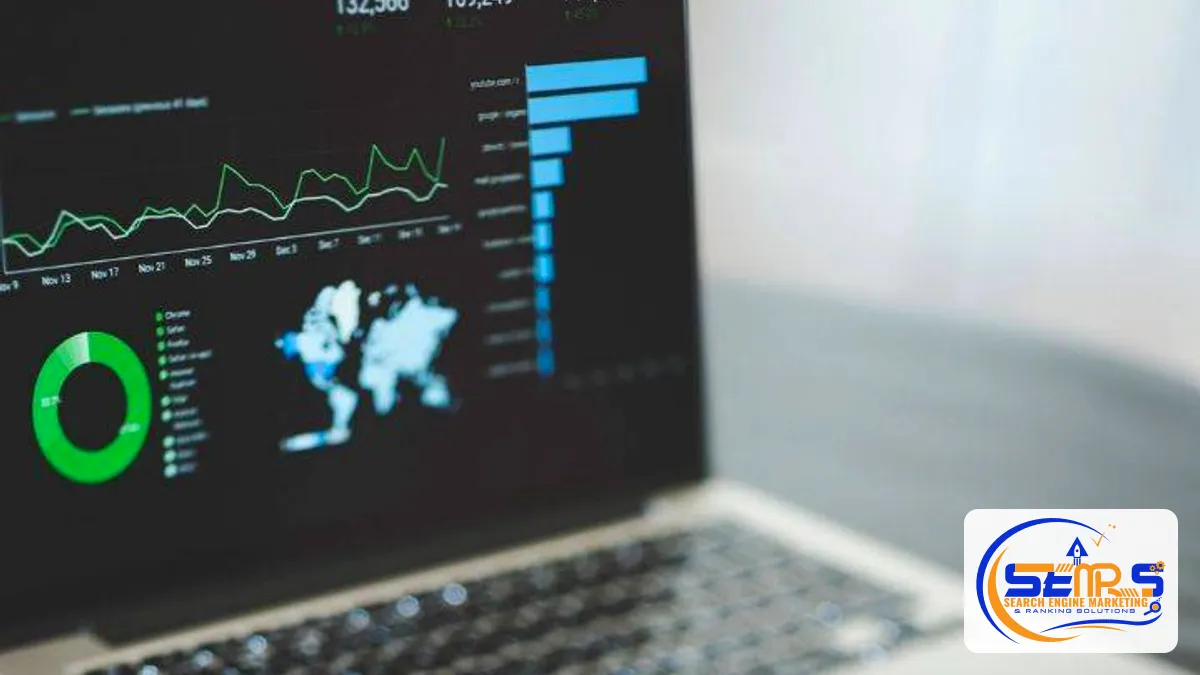
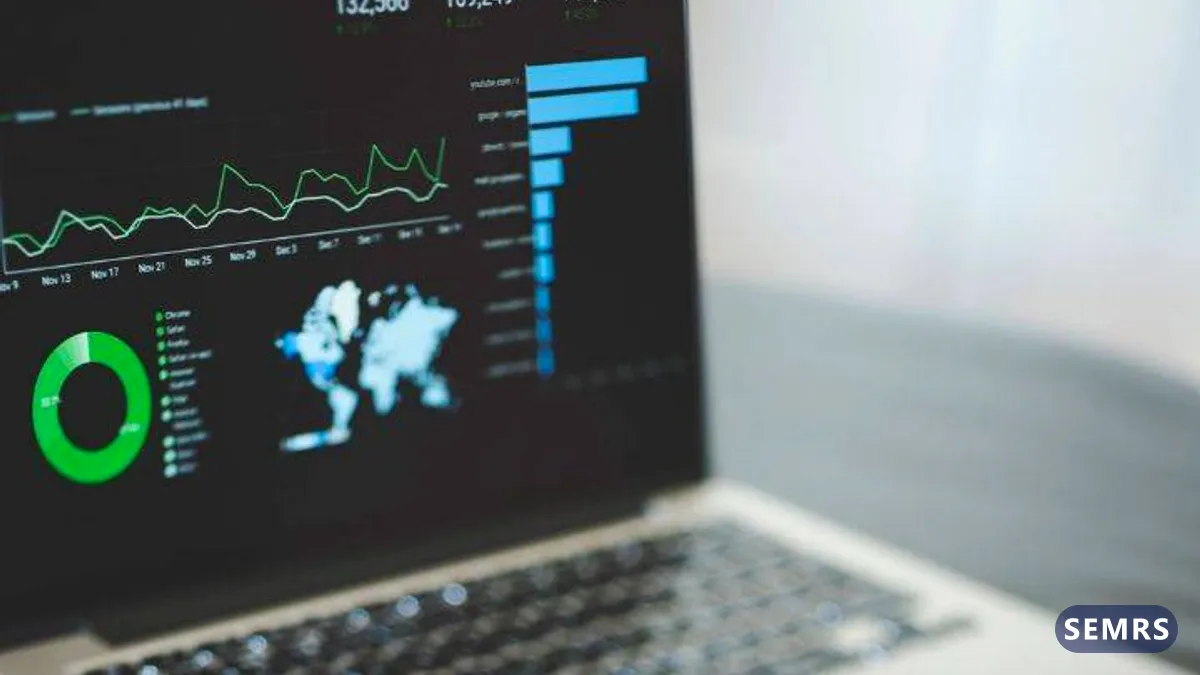
Dark mode and contrast fixes, valid ARIA, SEMRS text stamp on stock photos
- Theme 1.3.16: comparison tables readable in dark mode; links and outline
  buttons on blue call-to-action bands are white and turn white on hover.
- Pro 1.4.6: light backgrounds set in page content switch to dark surfaces in
  dark mode; readable status colours; slider no longer puts role="group" on
  list items (Lighthouse list and ARIA audits).
- Tools 1.3.3 / Blocks 1.3.4: service box, drop zone, tabs, cards, status and
  form error colours follow dark mode; tab hover uses the theme button hover.
- Site 1.2.14: portfolio hero, buttons and filters in dark mode; role="img"
  moved from captioned figures to their SVGs (agentic accessibility tree).
- Blog images: free-stock photos carry the plain word "SEMRS" (never the logo);
  generated graphics only when necessary. Rule written into WRITING_GUIDE.md;
  image builder moved into the repo (content-src/blog/blog-images.mjs).

Changed region(s): [[0.8017, 0.7467, 0.9867, 0.9644]]

diff --git a/semrs-site/plugins/semrs-tools/assets/tools.css b/semrs-site/plugins/semrs-tools/assets/tools.css
@@ -7,9 +7,9 @@
 	--st-muted: var(--sp-muted, #5b6575);
 	--st-line: var(--sp-line, #e3e7ee);
 	--st-surface: var(--sp-surface, #f6f7f9);
-	--st-ok: #0f7b4d;
-	--st-bad: #b42318;
-	--st-warn: #8a5a00;
+	--st-ok: var(--sp-ok, #0f7b4d);
+	--st-bad: var(--sp-bad, #b42318);
+	--st-warn: var(--sp-warn, #8a5a00);
 	min-height: 380px;
 	margin: 1.5rem 0;
 }
@@ -54,8 +54,10 @@
 .semrs-tool__table { width: 100%; border-collapse: collapse; font-size: .9rem; }
 .semrs-tool__table th, .semrs-tool__table td { border: 1px solid var(--st-line); padding: .5rem; text-align: left; vertical-align: top; word-break: break-word; }
 .semrs-tool__tabs { display: flex; flex-wrap: wrap; gap: .25rem; margin-bottom: 1rem; }
-.semrs-tool__tabs button { min-height: 40px; padding: .4rem .9rem; font: inherit; font-size: .9rem; background: #fff; border: 1px solid var(--st-line); border-radius: 999px; cursor: pointer; color: var(--st-primary); }
+.semrs-tool__tabs button { min-height: 40px; padding: .4rem .9rem; font: inherit; font-size: .9rem; background: var(--sp-card, #fff); border: 1px solid var(--st-line); border-radius: 999px; cursor: pointer; color: var(--st-primary); }
 .semrs-tool__tabs button[aria-pressed="true"] { background: var(--st-primary); border-color: var(--st-primary); color: #fff; }
+.semrs-tool__tabs button:not([aria-pressed="true"]):hover { color: var(--sp-btn-hover-text, #fff); background: var(--sp-btn-hover, #0b1f3a); border-color: var(--sp-btn-hover, #0b1f3a); }
+html[data-theme="dark"] .semrs-tool__tabs button[aria-pressed="true"] { background: var(--st-accent); border-color: var(--st-accent); color: var(--st-on-accent); }
 .semrs-tool__repeat { border: 1px dashed var(--st-line); border-radius: 8px; padding: .75rem; margin-bottom: .75rem; }
 /* SERP preview */
 .semrs-serp { font-family: Arial, sans-serif; background: #fff; max-width: 600px; }
@@ -70,14 +72,14 @@
 .semrs-serp__date { color: #70757a; }
 .semrs-serp__label { font-size: .8rem; font-weight: 600; color: var(--st-muted); margin: 1rem 0 .4rem; text-transform: uppercase; letter-spacing: .05em; }
 /* Image compressor */
-.semrs-drop { border: 2px dashed #b8c0cc; border-radius: 12px; padding: 2rem 1rem; text-align: center; background: #fff; cursor: pointer; }
-.semrs-drop.is-over { border-color: var(--st-accent); background: #fbf4e0; }
+.semrs-drop { border: 2px dashed #b8c0cc; border-radius: 12px; padding: 2rem 1rem; text-align: center; background: var(--sp-card, #fff); cursor: pointer; }
+.semrs-drop.is-over { border-color: var(--st-accent); background: var(--sp-accent-soft, #fbf4e0); }
 .semrs-img-list { display: grid; gap: .75rem; }
 .semrs-img-item { display: grid; grid-template-columns: 64px 1fr auto; gap: .75rem; align-items: center; padding: .5rem; border: 1px solid var(--st-line); border-radius: 8px; }
 .semrs-img-item img { width: 64px; height: 64px; object-fit: cover; border-radius: 6px; }
 .semrs-good { color: var(--st-ok); font-weight: 700; }
 /* Service CTA after a tool */
-.semrs-service-cta { border-left: 4px solid var(--st-accent, #d4a72c); background: #fbf4e0; border-radius: 8px; padding: 1rem 1.25rem; margin: 1rem 0 0; }
+.semrs-service-cta { border-left: 4px solid var(--st-accent, #d4a72c); background: var(--sp-accent-soft, #fbf4e0); border-radius: 8px; padding: 1rem 1.25rem; margin: 1rem 0 0; }
 .semrs-service-cta p { margin: 0; }
 @media (max-width: 544px) {
 	.semrs-tool, .semrs-tool__panel { padding: 1rem; }
@@ -87,7 +89,7 @@
 .semrs-tools-dir__cat { margin: 2.5rem 0; }
 .semrs-tools-dir__cat h2 a { text-decoration: none; color: inherit; }
 .semrs-tools-grid { display: grid; gap: 1rem; grid-template-columns: repeat(auto-fill, minmax(240px, 1fr)); }
-.semrs-tools-card { display: flex; flex-direction: column; gap: .4rem; padding: 1.25rem; background: #fff; border: 1px solid var(--sp-line, #e3e7ee); border-radius: 12px; text-decoration: none; color: var(--sp-text, #1f2937); transition: border-color .15s, box-shadow .15s; }
+.semrs-tools-card { display: flex; flex-direction: column; gap: .4rem; padding: 1.25rem; background: var(--sp-card, #fff); border: 1px solid var(--sp-line, #e3e7ee); border-radius: 12px; text-decoration: none; color: var(--sp-text, #1f2937); transition: border-color .15s, box-shadow .15s; }
 .semrs-tools-card:hover { border-color: var(--sp-accent, #d4a72c); box-shadow: 0 8px 24px rgba(11, 31, 58, .08); }
 .semrs-tools-card__title { font-weight: 700; color: var(--sp-primary, #0b1f3a); font-size: 1.05rem; }
 .semrs-tools-card__desc { font-size: .9rem; color: var(--sp-muted, #5b6575); }

diff --git a/semrs-site/theme/semrs/style.css b/semrs-site/theme/semrs/style.css
@@ -4,7 +4,7 @@ Theme URI:         https://semrs.com/
 Author:            SEMRS
 Author URI:        https://semrs.com/
 Description:       Lightweight, SEO-first theme for businesses, agencies and blogs. Drag-and-drop header and footer builder with top bar, sticky and transparent header, header search and a mobile menu panel. Seven section patterns, sidebar layouts, blog grid or list, reading progress bar, author box, related posts and per-page header, footer and sidebar options. No jQuery: one stylesheet and one small script.
-Version:           1.3.15
+Version:           1.3.16
 Requires at least: 6.5
 Tested up to:      7.1
 Requires PHP:      7.4
@@ -443,7 +443,9 @@ label { font-weight: 600; color: var(--sp-primary); }
 .semrs-section--muted { background: var(--sp-surface); }
 .semrs-section--navy { background: var(--sp-primary); color: var(--sp-on-dark); }
 .semrs-section--navy :where(h1, h2, h3, h4) { color: #fff; }
-.semrs-section--navy a:not(.wp-block-button__link) { color: var(--sp-accent); }
+/* Links on navy/primary bands: white, accent tint on hover (the accent itself is too dim on some brand blues). */
+:is(.semrs-section--navy, .semrs-cta-band) a:not(.wp-block-button__link) { color: #fff; }
+:is(.semrs-section--navy, .semrs-cta-band) a:not(.wp-block-button__link):hover { color: color-mix(in srgb, var(--sp-accent) 60%, #fff); }
 .semrs-eyebrow { font-size: .875rem; font-weight: 700; letter-spacing: .08em; text-transform: uppercase; color: var(--sp-accent-text); margin-bottom: .5rem; }
 .semrs-section--navy .semrs-eyebrow { color: var(--sp-accent); }
 .semrs-lead { font-size: clamp(1.0625rem, 1rem + .3vw, 1.25rem); color: var(--sp-muted); }
@@ -495,7 +497,9 @@ label { font-weight: 600; color: var(--sp-primary); }
 .semrs-cta-band { background: var(--sp-primary); color: var(--sp-on-dark); border-radius: var(--sp-radius); padding: 3rem 2rem; text-align: center; }
 .semrs-cta-band h2 { color: #fff; margin-top: 0; }
 .semrs-cta-band .wp-block-buttons { justify-content: center; }
-.semrs-cta-band .is-style-outline > .wp-block-button__link { color: #fff; border-color: #fff; }
+.semrs-cta-band .wp-block-button.is-style-outline > .wp-block-button__link:not(.has-background) { color: #fff; border-color: #fff; }
+/* The usual hover colour is the band colour itself, so buttons on the band turn white on hover. */
+.semrs-cta-band .wp-block-button > .wp-block-button__link:not(.has-background):hover { color: #0b1f3a; background: #fff; border-color: #fff; }
 @media (max-width: 544px) {
 	.semrs-cta-band { padding: 2rem 1.25rem; }
 	.semrs-cta-band .wp-block-button, .semrs-cta-band .wp-block-button__link { width: 100%; }
@@ -606,6 +610,10 @@ html[data-theme="dark"] .semrs-hero-cover .semrs-eyebrow { color: var(--sp-accen
 .semrs-compare th, .semrs-compare td { padding: .75rem .9rem; text-align: left; vertical-align: top; }
 @media (prefers-reduced-motion: reduce) { .semrs-tilt .semrs-block, .semrs-tilt > .semrs-container__inner > * { transition: none; } .semrs-tilt .semrs-block:hover { transform: none; } .semrs-chart__line { animation: none; stroke-dashoffset: 0; } }
 html[data-theme="dark"] .semrs-chart { background: #13233d; border-color: #2a3d5c; }
+/* Dark mode tables: the primary colour turns light, so headers keep the navy; core's striped rows are light grey. */
+html[data-theme="dark"] .semrs-compare thead th:not(:last-child) { background: var(--sp-dark-header, #0b1f3a); }
+html[data-theme="dark"] .wp-block-table.is-style-stripes tbody tr:nth-child(odd) { background-color: var(--sp-surface); }
+html[data-theme="dark"] .wp-block-table.is-style-stripes { border-bottom-color: var(--sp-line); }
 
 /* ---------- Home showcase: dashboard, gauges, portfolio strip ---------- */
 .semrs-dash { margin: 0; border-radius: 22px; box-shadow: 0 30px 60px rgba(11,31,58,.28), 0 0 0 1px rgba(255,255,255,.06); transition: transform .5s ease; transform: perspective(1100px) rotateY(-8deg) rotateX(4deg); }

diff --git a/semrs-site/plugins/semrs-pro/assets/dark.css b/semrs-site/plugins/semrs-pro/assets/dark.css
@@ -29,6 +29,9 @@ html[data-theme="dark"] {
 	--sp-accent-soft: #2b2512;
 	--sp-accent-soft: color-mix(in srgb, var(--sp-accent) 18%, var(--sp-bg));
 	--sp-header-bg: #0b1f3a;
+	--sp-ok: #5fd39a;
+	--sp-bad: #ff8a80;
+	--sp-warn: #f3c969;
 	--sp-shadow: 0 1px 2px rgba(0, 0, 0, .4), 0 8px 24px rgba(0, 0, 0, .35);
 	--wp--preset--color--white: #132036;
 	--wp--preset--color--surface: #152238;
@@ -49,6 +52,10 @@ html[data-theme="dark"] .page-numbers.current { background: var(--sp-dark-header
 html[data-theme="dark"] .semrs-section--navy, html[data-theme="dark"] .semrs-cta-band { box-shadow: inset 0 0 0 1px #1e3a66; }
 html[data-theme="dark"] .semrs-btn:hover { background: var(--sp-btn-hover); border-color: var(--sp-btn-hover); color: var(--sp-btn-hover-text); }
 html[data-theme="dark"] :is(.sp-button, .wp-block-button__link, .wp-element-button, .semrs-btn):hover { box-shadow: 0 10px 24px rgba(0,0,0,.45), 0 0 0 1px rgba(255,255,255,.18); }
+
+/* Light backgrounds typed into page content (container/group colour settings). */
+html[data-theme="dark"] :is([style*="background:#fff;"], [style*="background:#ffffff"], [style*="background-color:#fff;"], [style*="background-color:#ffffff"], [style*="background:#f6f7f9"], [style*="background-color:#f6f7f9"], [style*="background:#f0f0f0"], [style*="background-color:#f0f0f0"]) { background: var(--sp-surface) !important; color: var(--sp-text); }
+html[data-theme="dark"] :is([style*="background:#fbf4e0"], [style*="background-color:#fbf4e0"]) { background: var(--sp-accent-soft) !important; color: var(--sp-text); }
 
 /* Cards, panels and fields that were white. */
 html[data-theme="dark"] :is(.semrs-card, .semrs-card-grid > .wp-block-column, .semrs-process > li, .semrs-faq .wp-block-details, .semrs-tool__panel, .semrs-tools-card, .semrs-post, .semrs-pricing, .semrs-service--card, .semrs-acc__item, .semrs-testi, .semrs-cd__unit, .semrs-source, .sp-card, .sp-search-panel, .semrs-popup__box) { background: var(--sp-card); border-color: var(--sp-line); }

diff --git a/semrs-site/plugins/semrs-site/assets/site.css b/semrs-site/plugins/semrs-site/assets/site.css
@@ -64,11 +64,13 @@ html[data-theme="dark"] .semrs-kw-strip__form input { background: #0b1322; color
 .semrs-pf__btns { display: flex; flex-wrap: wrap; gap: 8px; margin-top: auto; }
 .semrs-pf__btn { display: inline-flex; align-items: center; min-height: 42px; padding: .45rem 1rem; font-weight: 700; font-size: .92rem; text-decoration: none; color: var(--sp-on-accent, #0b1f3a); background: var(--sp-accent, #d4a72c); border: 2px solid var(--sp-accent, #d4a72c); border-radius: 8px; }
 .semrs-pf__btn--ghost { color: var(--sp-primary, #0b1f3a); background: transparent; border-color: var(--sp-primary, #0b1f3a); }
-.semrs-pf__btn:hover { color: #fff; background: var(--sp-primary, #0b1f3a); border-color: var(--sp-primary, #0b1f3a); }
+.semrs-pf__btn:hover { color: var(--sp-btn-hover-text, #fff); background: var(--sp-btn-hover, #0b1f3a); border-color: var(--sp-btn-hover, #0b1f3a); }
 .semrs-pf__note { margin: 24px 0 0; color: var(--sp-muted, #5b6577); font-size: .9rem; }
 @media (prefers-reduced-motion: reduce) { .semrs-pf__media img, .semrs-pf__card { transition: none; } }
 html[data-theme="dark"] .semrs-pf__card, html[data-theme="dark"] .semrs-pf__filters button { background: #13233d; border-color: #2a3d5c; color: #e6edf7; }
-html[data-theme="dark"] .semrs-pf__btn--ghost { color: #e6edf7; border-color: #e6edf7; }
+html[data-theme="dark"] .semrs-pf__btn--ghost:not(:hover) { color: #e6edf7; border-color: #e6edf7; }
+html[data-theme="dark"] .semrs-pf__filters button.is-active { color: var(--sp-on-accent, #0b1f3a); background: var(--sp-accent, #d4a72c); border-color: var(--sp-accent, #d4a72c); }
+html[data-theme="dark"] .semrs-pf-hero { background: radial-gradient(640px 420px at 6% 8%, color-mix(in srgb, var(--sp-accent) 16%, transparent), transparent 70%), linear-gradient(115deg, var(--sp-surface) 0%, var(--sp-bg) 100%); }
 /* Full-website viewer (portfolio.js) */
 .semrs-pf-open { cursor: zoom-in; }
 .semrs-pf__btn.semrs-pf-open { cursor: pointer; }

diff --git a/semrs-site/plugins/semrs-blocks/assets/blocks.css b/semrs-site/plugins/semrs-blocks/assets/blocks.css
@@ -78,7 +78,7 @@
 .semrs-pricing__features li{display:flex;gap:.5rem;align-items:flex-start;margin:0}
 .semrs-pricing__features .is-yes .semrs-icon{color:#0f7b4d}
 .semrs-pricing__features .is-no{color:var(--b-muted)}
-.semrs-pricing__features .is-no .semrs-icon{color:#b42318}
+.semrs-pricing__features .is-no .semrs-icon{color:var(--sp-bad,#b42318)}
 .semrs-pricing .semrs-btn{margin-top:auto;width:100%}
 /* Service card */
 .semrs-service{display:flex;flex-direction:column;gap:.9rem;height:100%}
@@ -117,8 +117,8 @@
 .semrs-cf__check input{margin-top:.25rem;width:18px;height:18px;flex:0 0 auto}
 .semrs-cf__hp{position:absolute!important;left:-9999px!important;width:1px;height:1px;overflow:hidden}
 .semrs-cf__actions{margin:.4rem 0 0}
-.semrs-cf .is-invalid{border-color:#b42318!important}
-.semrs-cf__error{display:block;margin-top:.25rem;color:#b42318;font-size:.85rem}
+.semrs-cf .is-invalid{border-color:var(--sp-bad,#b42318)!important}
+.semrs-cf__error{display:block;margin-top:.25rem;color:var(--sp-bad,#b42318);font-size:.85rem}
 .semrs-cf__status:not(:empty){margin-top:.8rem;padding:.8rem 1rem;border-radius:8px;background:var(--b-surface)}
 .semrs-cf__status.is-ok{background:#e7f6ee;color:#0f5e3b}
 .semrs-cf__status.is-error{background:#fdecea;color:#8a1c12}

diff --git a/semrs-site/plugins/semrs-tools/assets/js/tools/seo-roi-calculator.js b/semrs-site/plugins/semrs-tools/assets/js/tools/seo-roi-calculator.js
@@ -41,7 +41,7 @@ SemrsTools.register('seo-roi-calculator', function (root, api) {
 		var roi = cumCost ? (cumRev - cumCost) / cumCost * 100 : 0;
 		var table = h('table', { class: 'semrs-tool__table' }, h('thead', null, h('tr', null, h('th', { text: 'Month' }), h('th', { text: 'Extra visits' }), h('th', { text: 'Extra revenue' }), h('th', { text: 'Running total vs. cost' }))));
 		var tb = h('tbody');
-		rows.forEach(function (r) { tb.append(h('tr', null, h('td', { text: r[0] }), h('td', { text: r[1].toLocaleString('en-US') }), h('td', { text: money(r[2]) }), h('td', { style: 'color:' + (r[3] >= 0 ? '#0f7b4d' : '#b42318'), text: (r[3] < 0 ? '−' : '') + money(Math.abs(r[3])) }))); });
+		rows.forEach(function (r) { tb.append(h('tr', null, h('td', { text: r[0] }), h('td', { text: r[1].toLocaleString('en-US') }), h('td', { text: money(r[2]) }), h('td', { style: 'color:' + (r[3] >= 0 ? 'var(--st-ok)' : 'var(--st-bad)'), text: (r[3] < 0 ? '−' : '') + money(Math.abs(r[3])) }))); });
 		table.append(tb);
 		out.innerHTML = '';
 		out.append(

diff --git a/semrs-site/plugins/semrs-tools/assets/js/tools/redirect-checker.js b/semrs-site/plugins/semrs-tools/assets/js/tools/redirect-checker.js
@@ -14,7 +14,7 @@ SemrsTools.register('redirect-checker', function (root, api) {
 	var LABELS = { 200: 'OK', 301: 'Moved permanently', 302: 'Found (temporary)', 303: 'See other', 307: 'Temporary redirect', 308: 'Permanent redirect', 404: 'Not found', 410: 'Gone', 403: 'Forbidden', 500: 'Server error', 503: 'Unavailable' };
 
 	function badge(code) {
-		var color = code >= 200 && code < 300 ? '#0f7b4d' : (code >= 300 && code < 400 ? '#8a5a00' : '#b42318');
+		var color = code >= 200 && code < 300 ? 'var(--st-ok)' : (code >= 300 && code < 400 ? 'var(--st-warn)' : 'var(--st-bad)');
 		return h('b', { style: 'color:' + color, text: code ? code + ' ' + (LABELS[code] || '') : 'Error' });
 	}
 

diff --git a/semrs-site/plugins/semrs-site/includes/portfolio.php b/semrs-site/plugins/semrs-site/includes/portfolio.php
@@ -320,10 +320,10 @@ function semrs_portfolio_page_content() {
 	$c .= $btns( array( array( __( 'Get a free website quote', 'semrs-site' ), $s['contact'] ), array( __( 'Browse designs', 'semrs-site' ), '#designs', true ) ) );
 	$c .= "<!-- /wp:semrs/container -->\n\n";
 	$c .= '<!-- wp:semrs/container {"align":"full","padTop":48,"padBottom":64,"tag":"section"} -->' . "\n" . $h( __( 'Website designs', 'semrs-site' ) ) . $p( __( 'Hover a design to scroll through its home page. Click it to browse the whole website, page by page, on desktop, tablet or phone.', 'semrs-site' ) ) . "<!-- wp:shortcode -->\n[semrs_portfolio]\n<!-- /wp:shortcode -->\n<!-- /wp:semrs/container -->\n\n";
-	$c .= '<!-- wp:semrs/container {"align":"full","bg":"#f6f7f9","padTop":64,"padBottom":64,"tag":"section"} -->' . "\n" . $h( __( 'How we build your website', 'semrs-site' ), 2, true );
+	$c .= '<!-- wp:semrs/container {"align":"full","bg":"var(--sp-surface)","padTop":64,"padBottom":64,"tag":"section"} -->' . "\n" . $h( __( 'How we build your website', 'semrs-site' ), 2, true );
 	$c .= '<!-- wp:semrs/container {"layout":"grid","columns":3,"columnsTablet":3,"width":"full","gap":32} -->' . "\n";
 	foreach ( array( array( 'search', __( '1. Choose a design', 'semrs-site' ), __( 'Pick a design from the portfolio, or tell us what you have in mind.', 'semrs-site' ) ), array( 'pen', __( '2. We make it yours', 'semrs-site' ), __( 'Your logo, colours, text and photos, with SEO and speed set up from day one.', 'semrs-site' ) ), array( 'rocket', __( '3. Launch and grow', 'semrs-site' ), __( 'We launch on your domain and can keep improving it with SEO and content.', 'semrs-site' ) ) ) as $step ) {
-		$c .= '<!-- wp:group {"layout":{"type":"default"}} -->' . "\n<div class=\"wp-block-group\"><!-- wp:semrs/icon {\"icon\":\"" . $step[0] . "\",\"size\":44,\"shape\":\"circle\",\"bg\":\"#fbf4e0\"} /-->\n\n" . $h( $step[1], 3 ) . $p( $step[2] ) . "</div>\n<!-- /wp:group -->\n\n";
+		$c .= '<!-- wp:group {"layout":{"type":"default"}} -->' . "\n<div class=\"wp-block-group\"><!-- wp:semrs/icon {\"icon\":\"" . $step[0] . "\",\"size\":44,\"shape\":\"circle\",\"bg\":\"var(--sp-accent-soft)\"} /-->\n\n" . $h( $step[1], 3 ) . $p( $step[2] ) . "</div>\n<!-- /wp:group -->\n\n";
 	}
 	$c .= "<!-- /wp:semrs/container -->\n<!-- /wp:semrs/container -->\n\n";
 	$c .= '<!-- wp:semrs/container {"align":"full","gradient":"navy","textColor":"#ffffff","padTop":64,"padBottom":64,"tag":"section"} -->' . "\n" . $h( __( 'Ready for a website that works for your business?', 'semrs-site' ), 2, true );

diff --git a/semrs-site/plugins/semrs-site/semrs-site.php b/semrs-site/plugins/semrs-site/semrs-site.php
@@ -2,7 +2,7 @@
 /**
  * Plugin Name:       SEMRS Site (semrs.com only)
  * Description:       semrs.com-only additions that are never given to clients: the SEMRS Store (products, collection and product pages, pricing) and SEMRS Pro sales page installer, the Keyword Ideas Generator tool, the "Hero with photo and keyword tool" pattern and its photo, and the web design portfolio hub ([semrs_portfolio]). Needs SEMRS Tools for the tool.
- * Version:           1.2.13
+ * Version:           1.2.14
  * Requires at least: 6.5
  * Requires PHP:      7.4
  * Author:            SEMRS
@@ -17,7 +17,7 @@ defined( 'ABSPATH' ) || exit;
 // WP Consent API: stores only functional data (preferences, saved inputs) and loads no trackers itself.
 add_filter( 'wp_consent_api_registered_' . plugin_basename( __FILE__ ), '__return_true' );
 
-define( 'SEMRS_SITE_VERSION', '1.2.13' );
+define( 'SEMRS_SITE_VERSION', '1.2.14' );
 define( 'SEMRS_SITE_DIR', plugin_dir_path( __FILE__ ) );
 define( 'SEMRS_SITE_URL', plugin_dir_url( __FILE__ ) );
 
@@ -47,6 +47,22 @@ add_action(
 	},
 	99
 );
+
+/**
+ * Older page content put role="img" on <figure> elements that have a caption, which ARIA does not
+ * allow (Lighthouse: "ARIA roles on compatible elements", "accessibility tree not well-formed").
+ * Move the role and label onto the SVG inside instead.
+ *
+ * @param string $html Post content.
+ * @return string
+ */
+function semrs_site_figure_roles( $html ) {
+	if ( false === strpos( $html, 'role="img"' ) ) {
+		return $html;
+	}
+	return preg_replace( '#<figure class="(semrs-[^"]+)" role="img" aria-label="([^"]*)">(\s*)<svg #', '<figure class="$1">$3<svg role="img" aria-label="$2" ', $html );
+}
+add_filter( 'the_content', 'semrs_site_figure_roles', 20 );
 
 /**
  * Add the Keyword Ideas Generator to SEMRS Tools (directory, shortcode).

diff --git a/semrs-site/plugins/semrs-pro/modules/blocks-pro.php b/semrs-site/plugins/semrs-pro/modules/blocks-pro.php
@@ -163,10 +163,10 @@ function semrs_pro_render_slider( $a ) {
 	$items  = '';
 	foreach ( $slides as $n => $s ) {
 		/* translators: 1: slide number, 2: total */
-		$items .= '<li class="semrs-slide" role="group" aria-roledescription="slide" aria-label="' . esc_attr( sprintf( __( '%1$d of %2$d', 'semrs-pro' ), $n + 1, count( $slides ) ) ) . '">' . $s . '</li>';
+		$items .= '<div class="semrs-slide" role="group" aria-roledescription="slide" aria-label="' . esc_attr( sprintf( __( '%1$d of %2$d', 'semrs-pro' ), $n + 1, count( $slides ) ) ) . '">' . $s . '</div>';
 	}
 	return semrs_pro_blocks_css() . sprintf(
-		'<div class="semrs-slider" role="region" aria-roledescription="carousel" aria-label="%1$s" data-autoplay="%2$s" data-interval="%3$d" data-loop="%4$s" style="--semrs-per:%5$d;%6$s"><ul class="semrs-slider__track">%7$s</ul>%8$s%9$s</div>',
+		'<div class="semrs-slider" role="region" aria-roledescription="carousel" aria-label="%1$s" data-autoplay="%2$s" data-interval="%3$d" data-loop="%4$s" style="--semrs-per:%5$d;%6$s"><div class="semrs-slider__track">%7$s</div>%8$s%9$s</div>',
 		esc_attr__( 'Slider', 'semrs-pro' ),
 		! empty( $a['autoplay'] ) ? '1' : '0',
 		max( 2, (int) semrs_blocks_a( $a, 'interval', 5 ) ) * 1000,

diff --git a/semrs-site/plugins/semrs-pro/semrs-pro.php b/semrs-site/plugins/semrs-pro/semrs-pro.php
@@ -3,7 +3,7 @@
  * Plugin Name:       SEMRS Pro
  * Plugin URI:        https://semrs.com/
  * Description:       Premium add-on for the SEMRS theme and SEMRS Core: sticky/transparent header, mega menu, table of contents, author box, related posts, extra section patterns, white label; multi-location local SEO, image SEO, custom schema; image library conversion; speed extras; ads manager; site layouts; case studies, portfolio and testimonials; lead tracking.
- * Version:           1.4.5
+ * Version:           1.4.6
  * Requires at least: 6.5
  * Requires PHP:      7.4
  * Update URI:        https://semrs.com/updates/semrs-pro
@@ -20,7 +20,7 @@ defined( 'ABSPATH' ) || exit;
 // WP Consent API: stores only functional data (preferences, saved inputs) and loads no trackers itself.
 add_filter( 'wp_consent_api_registered_' . plugin_basename( __FILE__ ), '__return_true' );
 
-define( 'SEMRS_PRO_VERSION', '1.4.5' );
+define( 'SEMRS_PRO_VERSION', '1.4.6' );
 define( 'SEMRS_PRO_DIR', plugin_dir_path( __FILE__ ) );
 define( 'SEMRS_PRO_URL', plugin_dir_url( __FILE__ ) );
 

diff --git a/semrs-site/plugins/semrs-blocks/semrs-blocks.php b/semrs-site/plugins/semrs-blocks/semrs-blocks.php
@@ -3,7 +3,7 @@
  * Plugin Name:       SEMRS Blocks
  * Plugin URI:        https://semrs.com/
  * Description:       Free blocks for any theme (SEMRS, Astra, GeneratePress, Kadence…): SVG icons, icon lists, fancy headings, post grids and lists, countdown timer, pricing and service cards, contact form with country picker, and a free-media sites directory. SEMRS Pro adds sliders, carousels, 3D models, counters, scroll animations and more.
- * Version:           1.3.3
+ * Version:           1.3.4
  * Requires at least: 6.5
  * Requires PHP:      7.4
  * Update URI:        https://semrs.com/updates/semrs-blocks
@@ -19,7 +19,7 @@ defined( 'ABSPATH' ) || exit;
 // WP Consent API: stores only functional data (preferences, saved inputs) and loads no trackers itself.
 add_filter( 'wp_consent_api_registered_' . plugin_basename( __FILE__ ), '__return_true' );
 
-define( 'SEMRS_BLOCKS_VERSION', '1.3.3' );
+define( 'SEMRS_BLOCKS_VERSION', '1.3.4' );
 define( 'SEMRS_BLOCKS_DIR', plugin_dir_path( __FILE__ ) );
 define( 'SEMRS_BLOCKS_URL', plugin_dir_url( __FILE__ ) );
 
